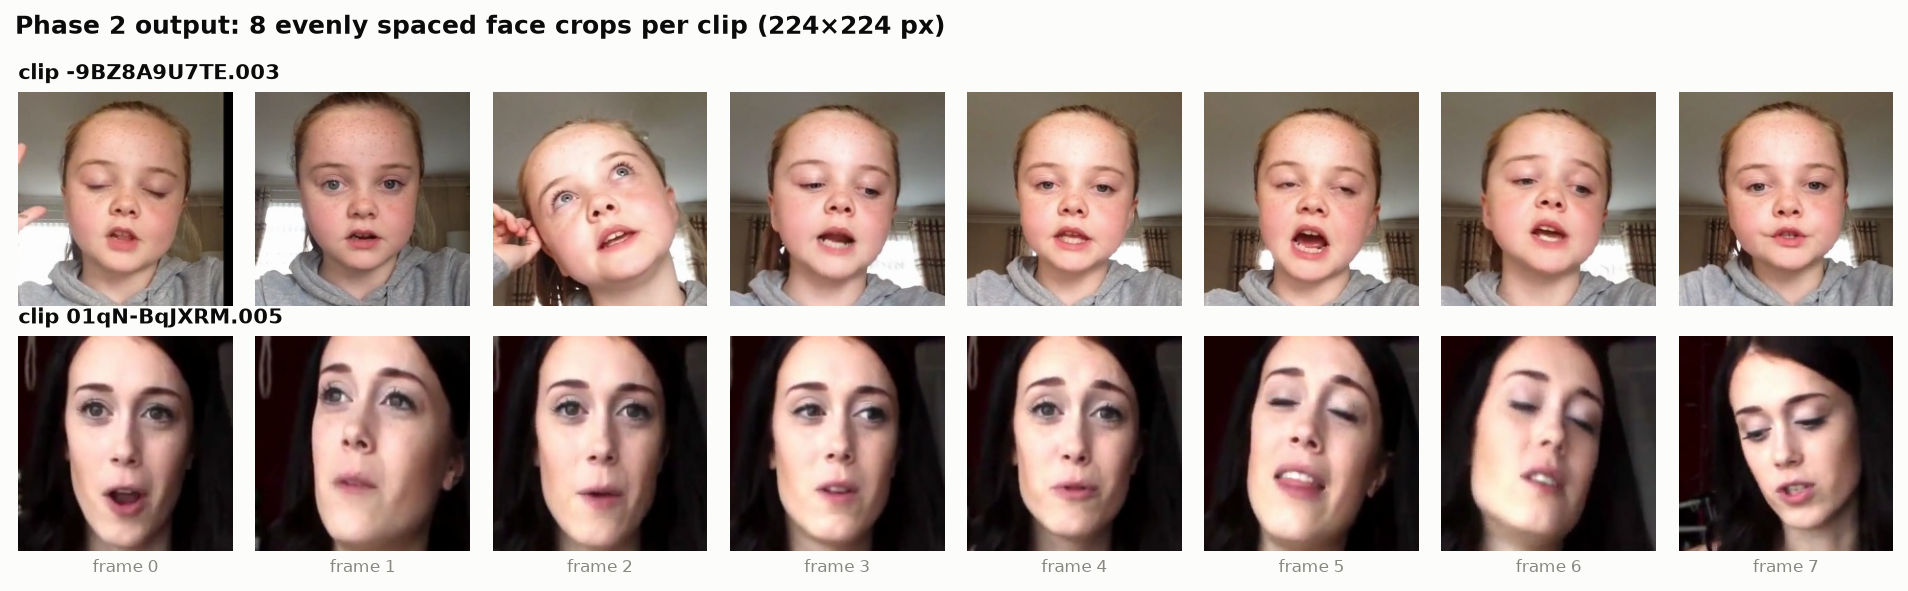
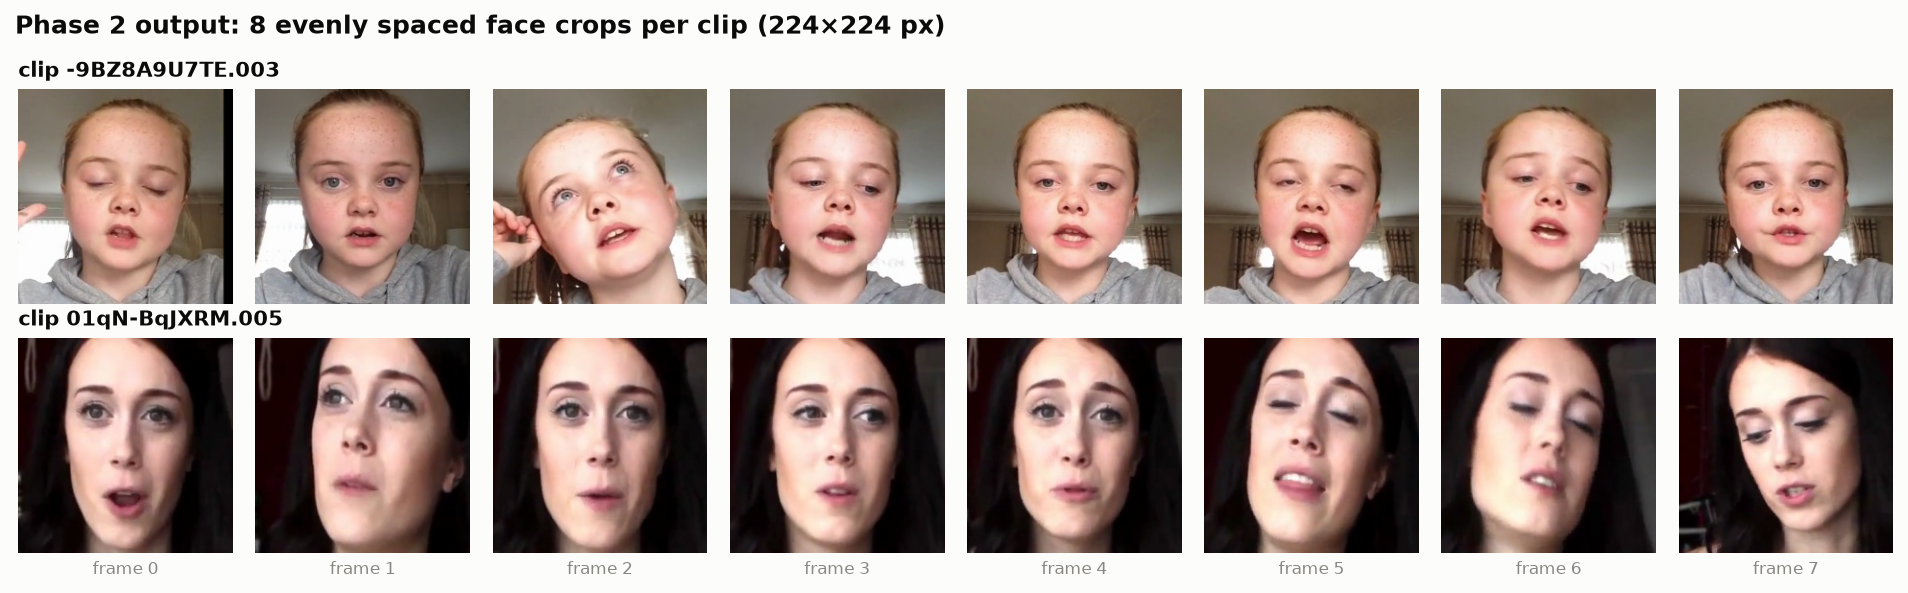
phase 1 & 2

diff --git a/src/02_preprocess.py b/src/02_preprocess.py
@@ -226,7 +226,7 @@ def figure_sample_frames(plt, sample_ids):
     fig.suptitle(f"Phase 2 output: {cols} evenly spaced face crops per clip "
                  f"({config.IMG_SIZE}×{config.IMG_SIZE} px)",
                  x=0.01, ha="left", fontsize=12, fontweight="bold")
-    fig.tight_layout()
+    fig.tight_layout(h_pad=1.5)
     fig.savefig(os.path.join(config.RESULTS_DIR, "sample_frames.png"))
     plt.close(fig)
 

diff --git a/README.md b/README.md
@@ -1,0 +1,109 @@
+# VIP Task T1 — Multimodal Psychometric Assessment
+
+Predicts the **Big Five personality traits** (openness, conscientiousness, extraversion,
+agreeableness, neuroticism) from short talking-head videos of the
+**ChaLearn First Impressions V2** dataset, using three modalities — face (visual), voice (audio)
+and words (text) — on their own and fused.
+
+This is a research prototype about *apparent* personality. It is **not** a diagnostic tool.
+
+> **Build status:** Phases 1–2 (data preparation, preprocessing) are implemented.
+> Phases 3–9 are added one by one; until then `run_all.sh` stops after Phase 2.
+
+## Setup
+
+```bash
+brew install ffmpeg                 # system dependency (macOS)
+python3 -m venv .venv
+source .venv/bin/activate
+pip install -r requirements.txt
+```
+
+Python 3.10+. The device is chosen automatically: `cuda` → `mps` (Apple Silicon) → `cpu`.
+
+## Where to put the data
+
+Download from the ChaLearn site (login required):
+<https://chalearnlap.cvc.uab.cat/dataset/24/data/41/description/>
+
+```
+data/raw/
+├── zips/          all downloaded .zip files, untouched (nested zips are handled)
+├── videos/        .mp4 clips, flat   (filled automatically from the zips)
+├── annotations/   annotation_training.pkl
+└── transcripts/   transcription_training.pkl
+```
+
+Videos must keep their ChaLearn file names (e.g. `J4GQm9j0JZ0.003.mp4`): the part before the
+first dot identifies the YouTube video and is what the train/val/test split is grouped by.
+If a zip is password protected, set `export CHALEARN_PW='...'` first.
+
+## How to run
+
+```bash
+./run_all.sh                          # everything, settings from config.py
+python src/02_preprocess.py           # or any single phase
+```
+
+Every script can be re-run at any time: finished clips are skipped, and if `data/splits.csv`
+gained new clips only those are processed. All settings live in `config.py`; `MAX_CLIPS` and
+`USE_HEAVY_MODELS` can also be set from the shell.
+
+## Smoke test (fake labels)
+
+To check that the code runs before the real label file is available:
+
+```bash
+python src/00_make_smoke_data.py                 # needs a few .mp4 in data/raw/videos/
+MAX_CLIPS=50 USE_HEAVY_MODELS=0 ./run_all.sh
+```
+
+`00_make_smoke_data.py` fetches the real transcripts of your clips from a Hugging Face mirror
+and writes **random** trait scores to
+`data/raw/annotations/DUMMY_FAKE_annotation_RANDOM_SCORES.pkl`.
+
+**While these dummy labels are in use, every number produced is meaningless.** The file
+`data/FAKE_LABELS_DO_NOT_REPORT.txt` exists, every script prints a `LABELS ARE FAKE` banner,
+and `results/summary.md` starts with the same warning.
+
+## Switching to full data
+
+1. Put the ChaLearn files in place — either
+   - the downloaded zips in `data/raw/zips/`, **or**
+   - the videos in `data/raw/videos/`, `annotation_training.pkl` in `data/raw/annotations/`
+     and `transcription_training.pkl` in `data/raw/transcripts/`.
+2. Run:
+
+   ```bash
+   MAX_CLIPS=2000 USE_HEAVY_MODELS=1 ./run_all.sh
+   ```
+
+Nothing else is needed, and no smoke file has to be deleted:
+
+- The real `annotation_training.pkl` / `transcription_training.pkl` are always preferred;
+  the DUMMY label file and the Hugging Face transcript subset are then ignored.
+- `data/FAKE_LABELS_DO_NOT_REPORT.txt` is deleted automatically and the banner disappears.
+- Clips already preprocessed during the smoke test are reused; only the new clips are processed.
+- Phase 1 prints the clip-level train/val/test ratio and warns if it is outside
+  65–75 / 10–20 / 10–20 %.
+
+## What each phase does
+
+| Script | What it does | Main outputs |
+|---|---|---|
+| `src/01_prepare_data.py` | Unzips, loads labels + transcripts, splits 70/15/15 **by YouTube video** (no person in two splits), binarises each trait at the **train** median | `data/splits.csv` |
+| `src/02_preprocess.py` | 8 face crops per clip; cleaned 16 kHz audio (spectral gating → silence trim → peak normalise); cleaned transcript | `data/processed/frames/`, `data/processed/audio/`, `text_clean` + `missing_text` columns |
+| `src/03`–`09` | features, unimodal models, fusion, ablation, analysis | *(coming)* |
+
+## Output files
+
+| File | Meaning |
+|---|---|
+| `data/splits.csv` | One row per clip: `video_id`, `youtube_id`, `split`, raw `text`, 5 raw trait scores, 5 `_bin` labels (1 = at or above the train median), `text_clean`, `missing_text` |
+| `data/processed/frames/<video_id>_<k>.jpg` | Frame `k` (0–7) of a clip, face-cropped, 224×224 |
+| `data/processed/audio/<video_id>.wav` | Cleaned mono audio, 16 kHz |
+| `data/processed/preprocess_log.csv` | Per clip: frames with a detected face, audio seconds before / after cleaning |
+| `data/processed/failed_clips.csv` | Clips dropped in Phase 2 and why (they are also removed from `splits.csv`) |
+| `results/sample_frames.png` | The 8 face crops of 2 sample clips |
+| `results/sample_waveform.png` | Raw vs cleaned audio of one clip |
+| `results/text_length_hist.png` | Transcript length in words |
